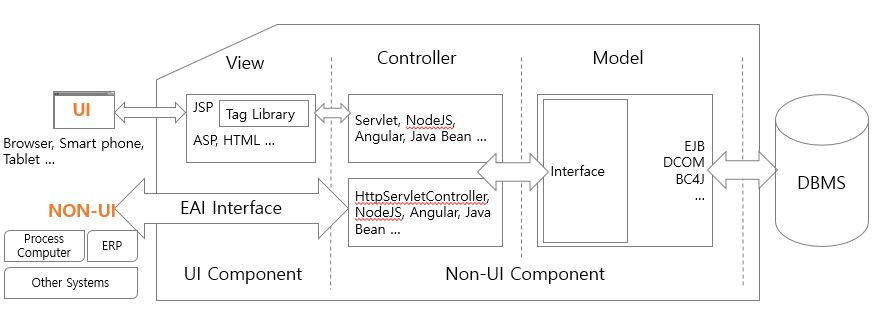
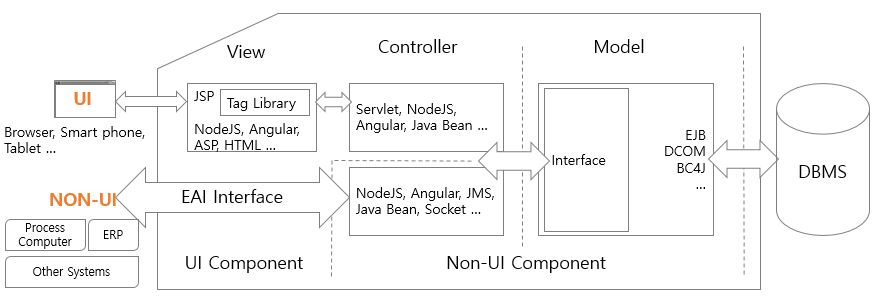
Add UI Component menu

diff --git a/_layouts/default.html b/_layouts/default.html
@@ -17,11 +17,11 @@
       <!--
         <a href="/contents/about" class="btn">About</a>
       -->
-        <a href="/contents/cbd" class="btn">About CBD</a>
-        <a href="/contents/reusable" class="btn">Reusable Component</a>        
-        <a href="/contents/uicomponent" class="btn">UI Component</a>
-        <a href="/contents/nonuicomponent" class="btn">NON-UI Component</a>
-        <a href="/contents/resume" class="btn">Resume</a>              
+        <a href="{{ site.globalurl }}/contents/cbd" class="btn">About CBD</a>
+        <a href="{{ site.globalurl }}/contents/reusable" class="btn">Reusable Component</a>        
+        <a href="{{ site.globalurl }}/contents/uicomponent" class="btn">UI Component</a>
+        <a href="{{ site.globalurl }}/contents/nonuicomponent" class="btn">NON-UI Component</a>
+        <a href="{{ site.globalurl }}/contents/resume" class="btn">Resume</a>              
         <a href="mailto://jongkuk.jay.lee@gmail.com" class="btn">Contact me</a>      
     </section>
 

diff --git a/contents/uicomponent.md b/contents/uicomponent.md
@@ -2,13 +2,61 @@
 layout: default
 ---
 ---
-# NON-UI Component
+# UI Component
 ---
 
-**I will make ui component part here!!!!**
-<br />
-<br />
-<br />
-<br />
-<br />
-<br />
+There is a little introduction about UI component in [Reusable Component](http://) page of this website. UI Component provides the functionalities to produce the graphic user interfaces (GUIs). The blue area of Figure1 shows the position of UI Component in a system.<br />
+
+![image]({{ site.globalurl }}/contents/img/reuse4.jpg)
+
+In the view layer of MVC model, the components will be used to display a logo, list of values (LOV), tables, scrolls and so on using JAVA script, Tag Library, Applet, NodeJS, Angular and so on. Also, in Controller layer of MVC model, the components can control and transact the requested data from GUIs. <br />
+
+In [POSCO MES Project](http://), to implement the view layer, JAVA script, Tag Library, and Applet was used, and to handle the controller layer, used Oracle MVC framework, which is abstract interfaces defined to control the requests from GUIs such as web pages. To implement the model layer of MVC model, Oracle Business Component for Java (BC4J), which is Oracle's solution to handle multi-tier, database applications from reusable business components. <br />
+
+POSCO has been applying strong security policies to protect their asset of IT solution such as deliverables, source codes. Therefore, this website can not show the real source codes or running system. <br />
+
+Instead, this website will use the [REACT](http://) and [Angular](http://) Component Solution to introduce the concepts of CBD as well as UI Reusable Component. <br />
+As well we can change the system diagram to fit the [REACT](http://) and [Angular](http://). However, the philosophy of the MVC model will be followed. So, there seems no big problem to understand the concept of component-oriented development methodology in enterprise environments. <br />
+
+![image]({{ site.globalurl }}/contents/img/reuse5.jpg)
+
+What is the next step to understand UI componet more?
+
+Here gives a business situation to process the project using UI components.
+
+> A company's Production department requires web pages to query and transact the output of product. After a few months later, Sales department will involve another project to develop the sales inquiry pages to connect with the product result. ERP team wants to monitor the sales and product rate on a daily base. Sales team and ERP team want to reduce their project budget through using Production department's system modules. What is the solution? <br />
+
+As you know, the answer is applying a component based development methodology to the project.
+Then, what is the first step? Do you remember we alreay mentioned the procedure for applying the reuable components to system in a project?
+
+> When a project starts, components should be classified in the view of reusability and be checked the adaptibility through developping and applying the prototypes. In the next phase, it should be defined and analyzed in the business and system perspective for developping the components. In the stage of implementation, such deliverables will be more clearly designed and implemented as components.<br />
+
+We will follow the above process. <br />
+The fisrt step is displaying all functionalities to achive A company's requirements.
+
+### Table1. classfication of functionality ###
+
+|Function                      |Production Department|Sales Department|ERP Team|
+|------------------------------|---------------------|----------------|--------|
+|Working Shift Group           |Need                 |Need            |Need    |
+|Production amount by Shift    |Need                 |Need            |Need    |
+|Total Stock                   |Need                 |Need            |Need    |
+|Price                         |Not Need             |Need            |Need    |
+|Discount rate                 |Not Need             |Need            |Need    |
+
+As you can see in Table1, 'Working Shift Group', 'Production amount by Shift', and 'Total Stock' could be used all dempartments. So, they will subject to candinate of UI component. Also, Price and Discount rate will subject to UI component for Sales Department and ERP Team.<br />
+
+
+
+
+
+
+
+
+
+
+
+
+
+
+

diff --git a/contents/reusable.md b/contents/reusable.md
@@ -9,17 +9,17 @@ When mentioning [Compnent Based Development (CBD)](http://), we need to focus on
 
 When a project starts, components should be classified in the view of reusability and be checked the adaptibility through developping and applying the prototypes. In the next phase, it should be defined and analyzed in the business and system perspective for developping the components. In the stage of implementation, such deliverables will be more clearly designed and implemented as components.<br />
 #### Figure1.how to apply reusable components in applications ####
-![Image](/contents/img/reuse1.jpg)
+![Image]({{ site.globalurl }}/contents/img/reuse1.jpg)
 
 Figure1 shows the developing procedure and the usage for reusable components. The components are managed in the component pool. Developers can select and apply the components, which are needed in their user interface (UI) applications or non user interface (NON-UI) applications. Note that there are all UI components, NON-UI components and common ones in one component pool.<br />
 
 #### Figure2.when components change ####
-![Image](/contents/img/reuse2.jpg)
+![Image]({{ site.globalurl }}/contents/img/reuse2.jpg)
 
 Figure2 shows when the components are changed, there are little effects in the applications. That is the most reason of why we use  reusable components in projects.<br />
 
 #### Figure3.Reusable Components Deploy ####
-![Image](/contents/img/reuse3.jpg)
+![Image]({{ site.globalurl }}/contents/img/reuse3.jpg)
 
 Figure3 shows where components are located in MVC -- **Model, View, Controller** -- model. In **View** part, the components have functionalities to display a logo, list of views (Lovs), tables, scrolls and so on using JAVA script, Tag Library, Applet. In **Controller part**, the components play a role in controllinga and processing the request from processing computers (P/C), enterprise resource planning (ERP) system, and other external systems. Also, this layer can controll and transact the data from graphic user interfaces (GUIs). Lastly, in **Model** layer, the components include the modules to connect to database system and to handle business rules. <br />
 

diff --git a/contents/about.md b/contents/about.md
@@ -6,7 +6,7 @@ layout: default
 This website introdues the methodology of ["CBD(Component Based Development)"](http://) project giving [POSCO]() [MES (Manufacturing Execution System)]().<br />
 
 >[POSCO]() is the the world's fourth-largest steelmaker by this measure in 2015. As steel-making is the most process industory, there is pursuited non-stop system from plan to delivery.<br />
-![Image](/contents/img/posco.jpg)
+![Image]({{ site.globalurl }}/contents/img/posco.jpg)
 
 >[MES (Manufacturing Execution System)]() is the management system of the produce activity management system on real-time from determining the optimized job-order to garunteeing the quality assurance.
 There was POSCO project Between 2002 and 2004 with nearly 300 million dolar IT buget.<br />

diff --git a/contents/resume.md b/contents/resume.md
@@ -6,7 +6,7 @@ layout: default
 ---
 
 |---|---|
-|![Image](/contents/img/jongkuk1.jpg)| • JAVA, WEB Programmer <br />• 50 Disera Dr, Toronto, Thornhill, ON L4J9E9 <br /> • Email: [jongkuk.jay.lee@gmail.com](http://mailto:jongkuk.jay.lee@gmail.com) &nbsp;&nbsp;&nbsp;[Resume (Jongkuk Lee) .docx](/CBDProject/contents/doc/Resume(JongkukLee).docx)|
+|![Image]({{ site.globalurl }}/contents/img/jongkuk1.jpg)| • JAVA, WEB Programmer <br />• 50 Disera Dr, Toronto, Thornhill, ON L4J9E9 <br /> • Email: [jongkuk.jay.lee@gmail.com](http://mailto:jongkuk.jay.lee@gmail.com) &nbsp;&nbsp;&nbsp;[Resume (Jongkuk Lee) .docx](/CBDProject/contents/doc/Resume(JongkukLee).docx)|
 
 ---
 ### OBJECTIVE### 

diff --git a/contents/cbd.md b/contents/cbd.md
@@ -29,7 +29,7 @@ Jongkuk Lee.<br />
 ## POSCO MES ##
 
 >[POSCO]() is the the world's fourth-largest steelmaker by this measure in 2015. As steel-making is the most process industory, there is pursuited non-stop system from plan to delivery.<br />
-![Image](/contents/img/posco.jpg)
+![Image]({{ site.globalurl }}/contents/img/posco.jpg)
 
 >[MES (Manufacturing Execution System)]() is the management system of the produce activity management system on real-time from determining the optimized job-order to garunteeing the quality assurance.
 There was POSCO project Between 2002 and 2004 with nearly 300 million dolar IT buget.<br />

diff --git a/contents/nonuicomponent.md b/contents/nonuicomponent.md
@@ -2,7 +2,7 @@
 layout: default
 ---
 ---
-# UI Component
+# NON-UI Component
 ---
 
 **I will make non-ui component part here!!!!**
